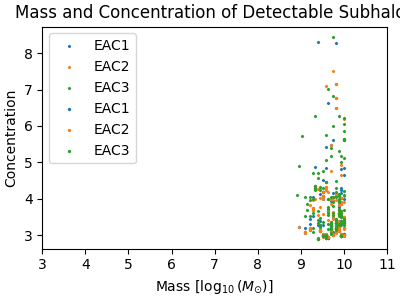
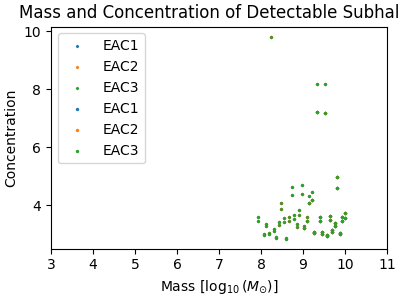
work on subhalo detection script

diff --git a/projects/hwo/pipeline/hwo_subhalo_detection_compare.py b/projects/hwo/pipeline/hwo_subhalo_detection_compare.py
@@ -208,7 +208,7 @@ def main():
 
     script_config = {
         'snr_quantile': 0.95,
-        'num_lenses': 500,  # None
+        'num_lenses': 2,  # None
         'num_positions': 1,
         'rng_seed': 42,
     }
@@ -248,7 +248,7 @@ def main():
                 'band': band,
                 'scene_size': 5,  # arcsec
                 'oversample': 5,
-                'exposure_time': 14400
+                'exposure_time': 1e6
             }
 
             # set up directories to save output to
